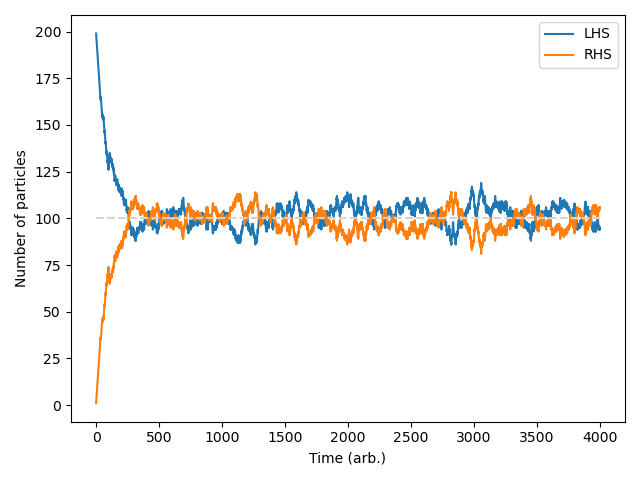
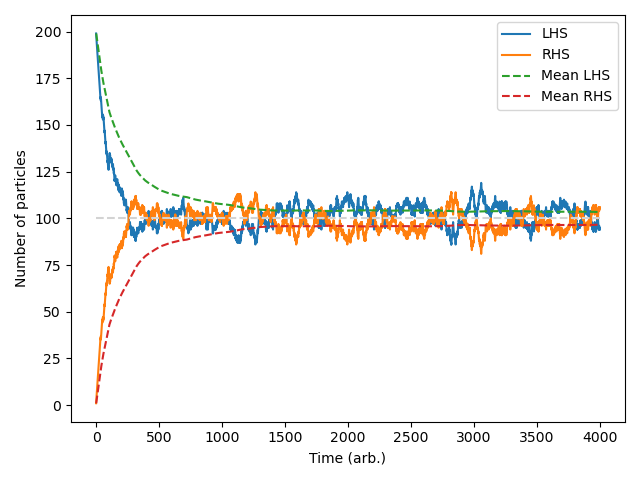
Included mean lines

diff --git a/Lab 1/partitioned.py b/Lab 1/partitioned.py
@@ -33,16 +33,21 @@ def simple_partition(N, M, time):
     Marray = np.ones(M)
     Rarray = np.zeros_like(Marray)
     tarray = np.arange(0,time,1)
-    Msumarray = np.zeros(time)
-    Rsumarray = np.zeros(time)
+    Msumarray = np.empty(time)
+    Rsumarray = np.empty(time)
+    Meanarray = np.empty((time,2))
 
     for i in range(time):
         r = rng.integers(1,N,1)[0]
         Marray[r], Rarray[r] = Rarray[r], Marray[r]
         Msumarray[i], Rsumarray[i] = Marray.sum(), Rarray.sum()
-
+        Meanarray[i,0] = np.mean(Msumarray[:i])
+        Meanarray[i,1] = np.mean(Rsumarray[:i])
+        
     plt.plot(tarray, Msumarray, label = 'LHS')
     plt.plot(tarray, Rsumarray, label = 'RHS')
+    plt.plot(tarray, Meanarray[:,0],label = 'Mean LHS', linestyle = '--')
+    plt.plot(tarray, Meanarray[:,1], label = 'Mean RHS', linestyle = '--')
     funcendtime = perf_counter()
     elapsed_time = np.round((funcendtime - funcstarttime) * 1e3, 4)
 
@@ -51,7 +56,7 @@ def simple_partition(N, M, time):
     plt.legend()
     plt.tight_layout()
     plt.hlines(1/2*N,0,time,'lightgrey','--')
-    plt.savefig(fname = "Lab 1/IMAGES/PCG64_Lec_Ex")
+    plt.savefig(fname = "Lab 1/IMAGES/MT19937_Lec_Ex")
     print("Simulation time = {}ms".format(elapsed_time))
 
 def simple_partition_PROB(N, M, time, prob):
@@ -75,6 +80,7 @@ def simple_partition_PROB(N, M, time, prob):
     tarray = np.arange(0,time,1) # Arbitrary time array for plotting
     Msumarray = np.zeros(time) # Sum array for plotting
     Rsumarray = np.zeros(time)
+    Meanarray = np.empty((time,2))
     
     for i in range(time):
         r = rng.random() # Create random float between 0 and 1
@@ -83,13 +89,17 @@ def simple_partition_PROB(N, M, time, prob):
             Marray[index], Rarray[index] = 0 , 1 # Move a particle from LHS to RHS
         else: 
             Marray[index], Rarray[index] = 1 , 0 # Move a particle from RHS to LHS
-        Msumarray[i], Rsumarray[i] = Marray.sum(), Rarray.sum() 
+        Msumarray[i], Rsumarray[i] = Marray.sum(), Rarray.sum()
+        Meanarray[i,0] = np.mean(Msumarray[:i])
+        Meanarray[i,1] = np.mean(Rsumarray[:i])
         # Sum particle no.s at each step for plotting
     funcendtime = perf_counter()
     elapsed_time = np.round((funcendtime - funcstarttime) * 1e3, 4) # Time taken for loops
 
     plt.plot(tarray, Msumarray, label = 'LHS')
     plt.plot(tarray, Rsumarray, label = 'RHS')
+    plt.plot(tarray, Meanarray[:,0],label = 'Mean LHS', linestyle = '--')
+    plt.plot(tarray, Meanarray[:,1], label = 'Mean RHS', linestyle = '--')
     plt.xlabel("Time (arb.)")
     plt.ylabel("Number of particles")
     plt.title('$P(LHS \Rightarrow RHS) = {}$'.format(prob))
@@ -98,10 +108,10 @@ def simple_partition_PROB(N, M, time, prob):
     plt.legend()
     plt.tight_layout()
     #plt.show()
-    plt.savefig(fname = "Lab 1/IMAGES/PCG64_{}".format(int(prob*100)))
+    plt.savefig(fname = "Lab 1/IMAGES/MT19937_{}".format(int(prob*100)))
     print("Simulation time = {}ms".format(elapsed_time))
 
-rng = Generator(PCG64(seed=2010)) # Change accordingly
+rng = Generator(MT19937(seed=2010)) # Change accordingly
 simple_partition(200,200,4000) 
 
 prob = 0.25
